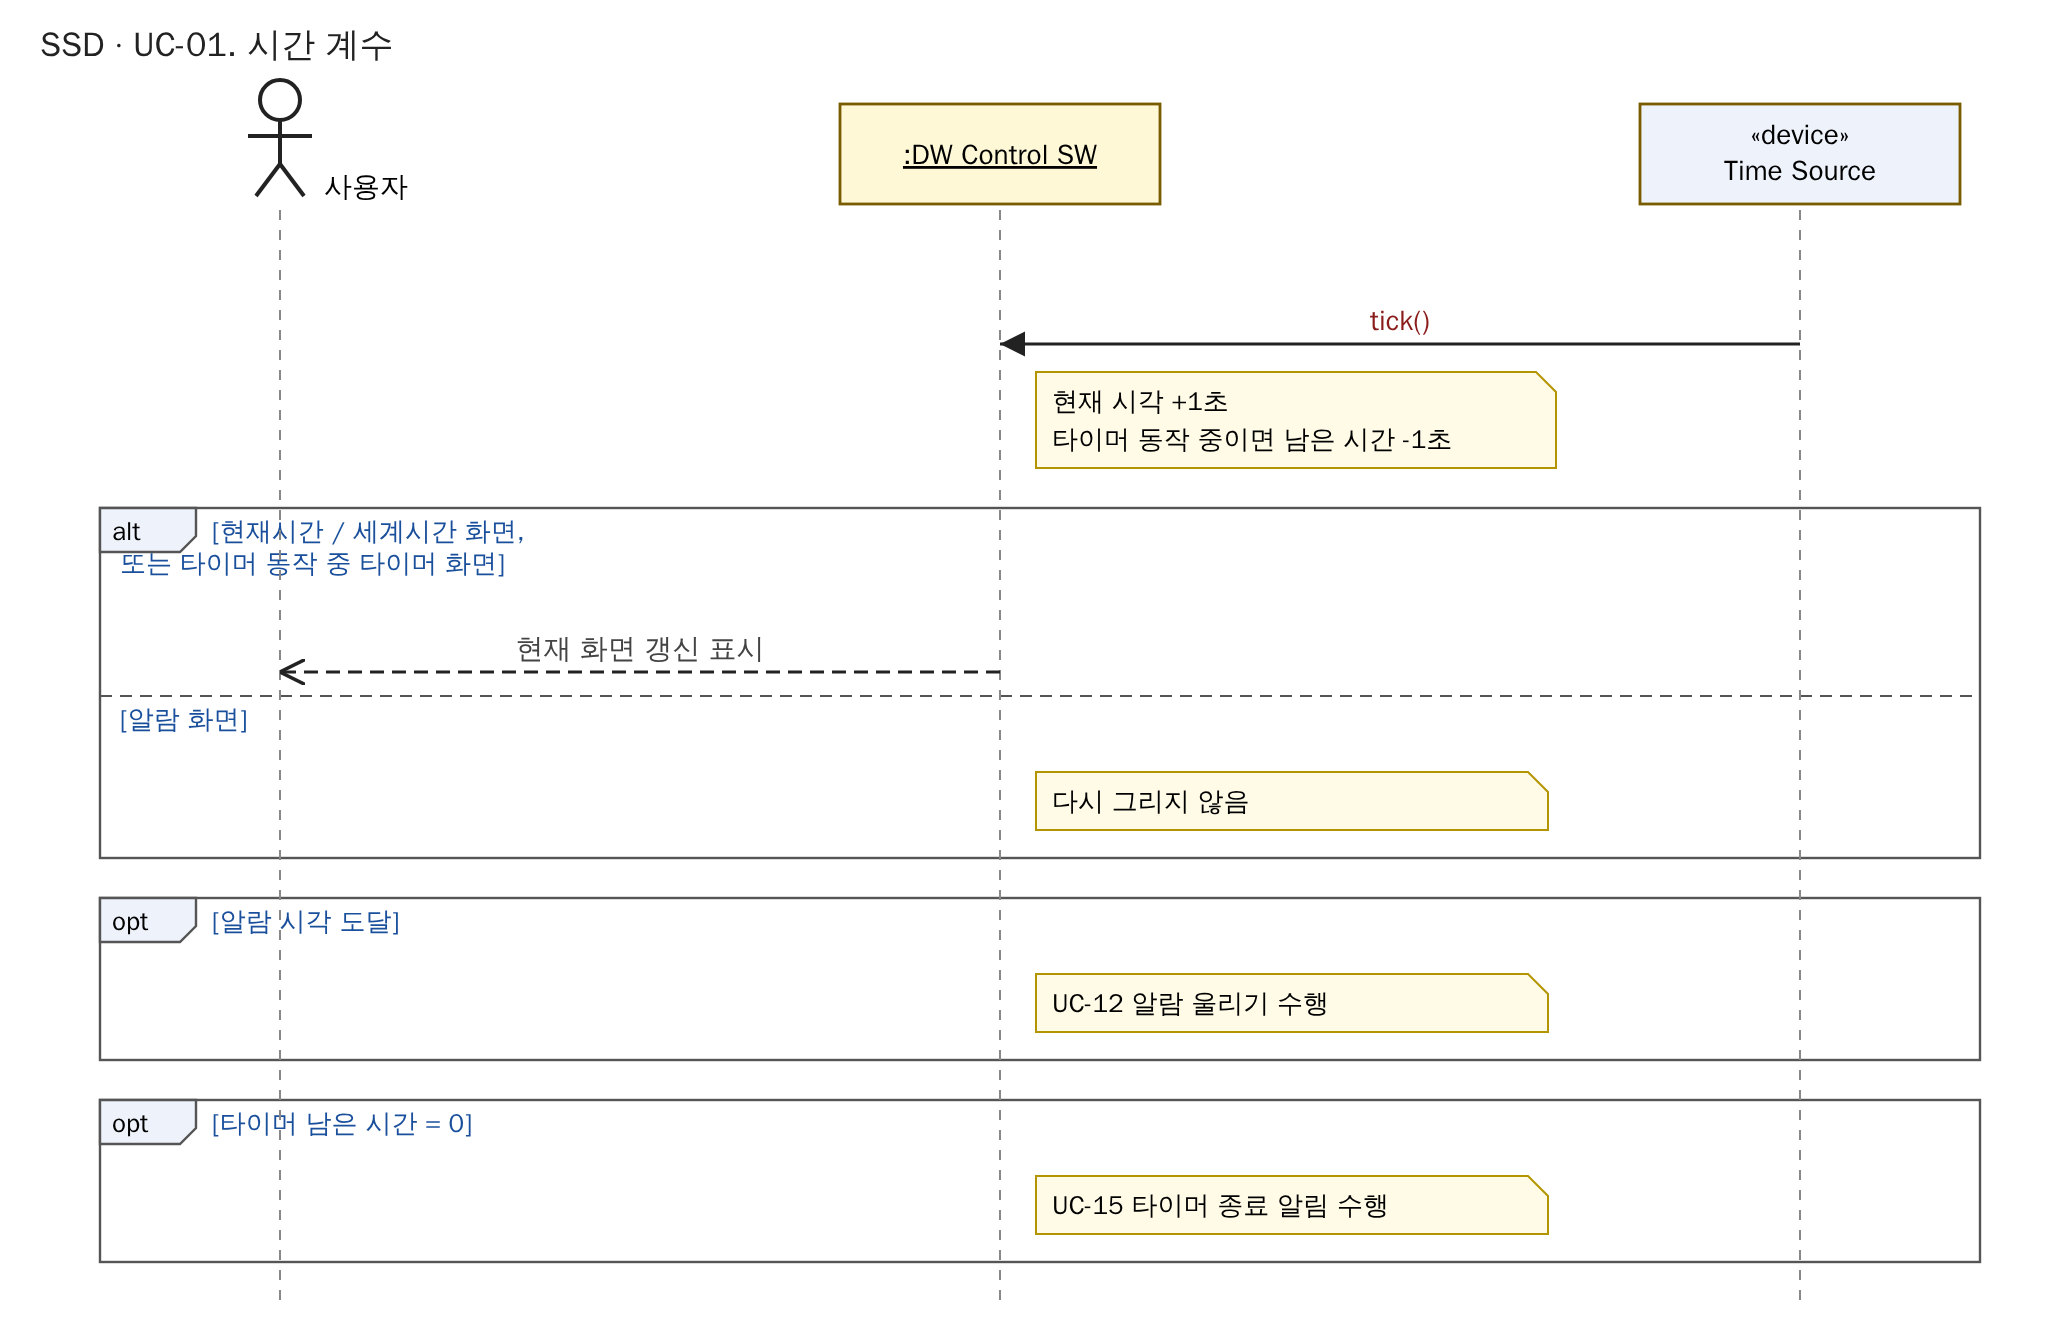
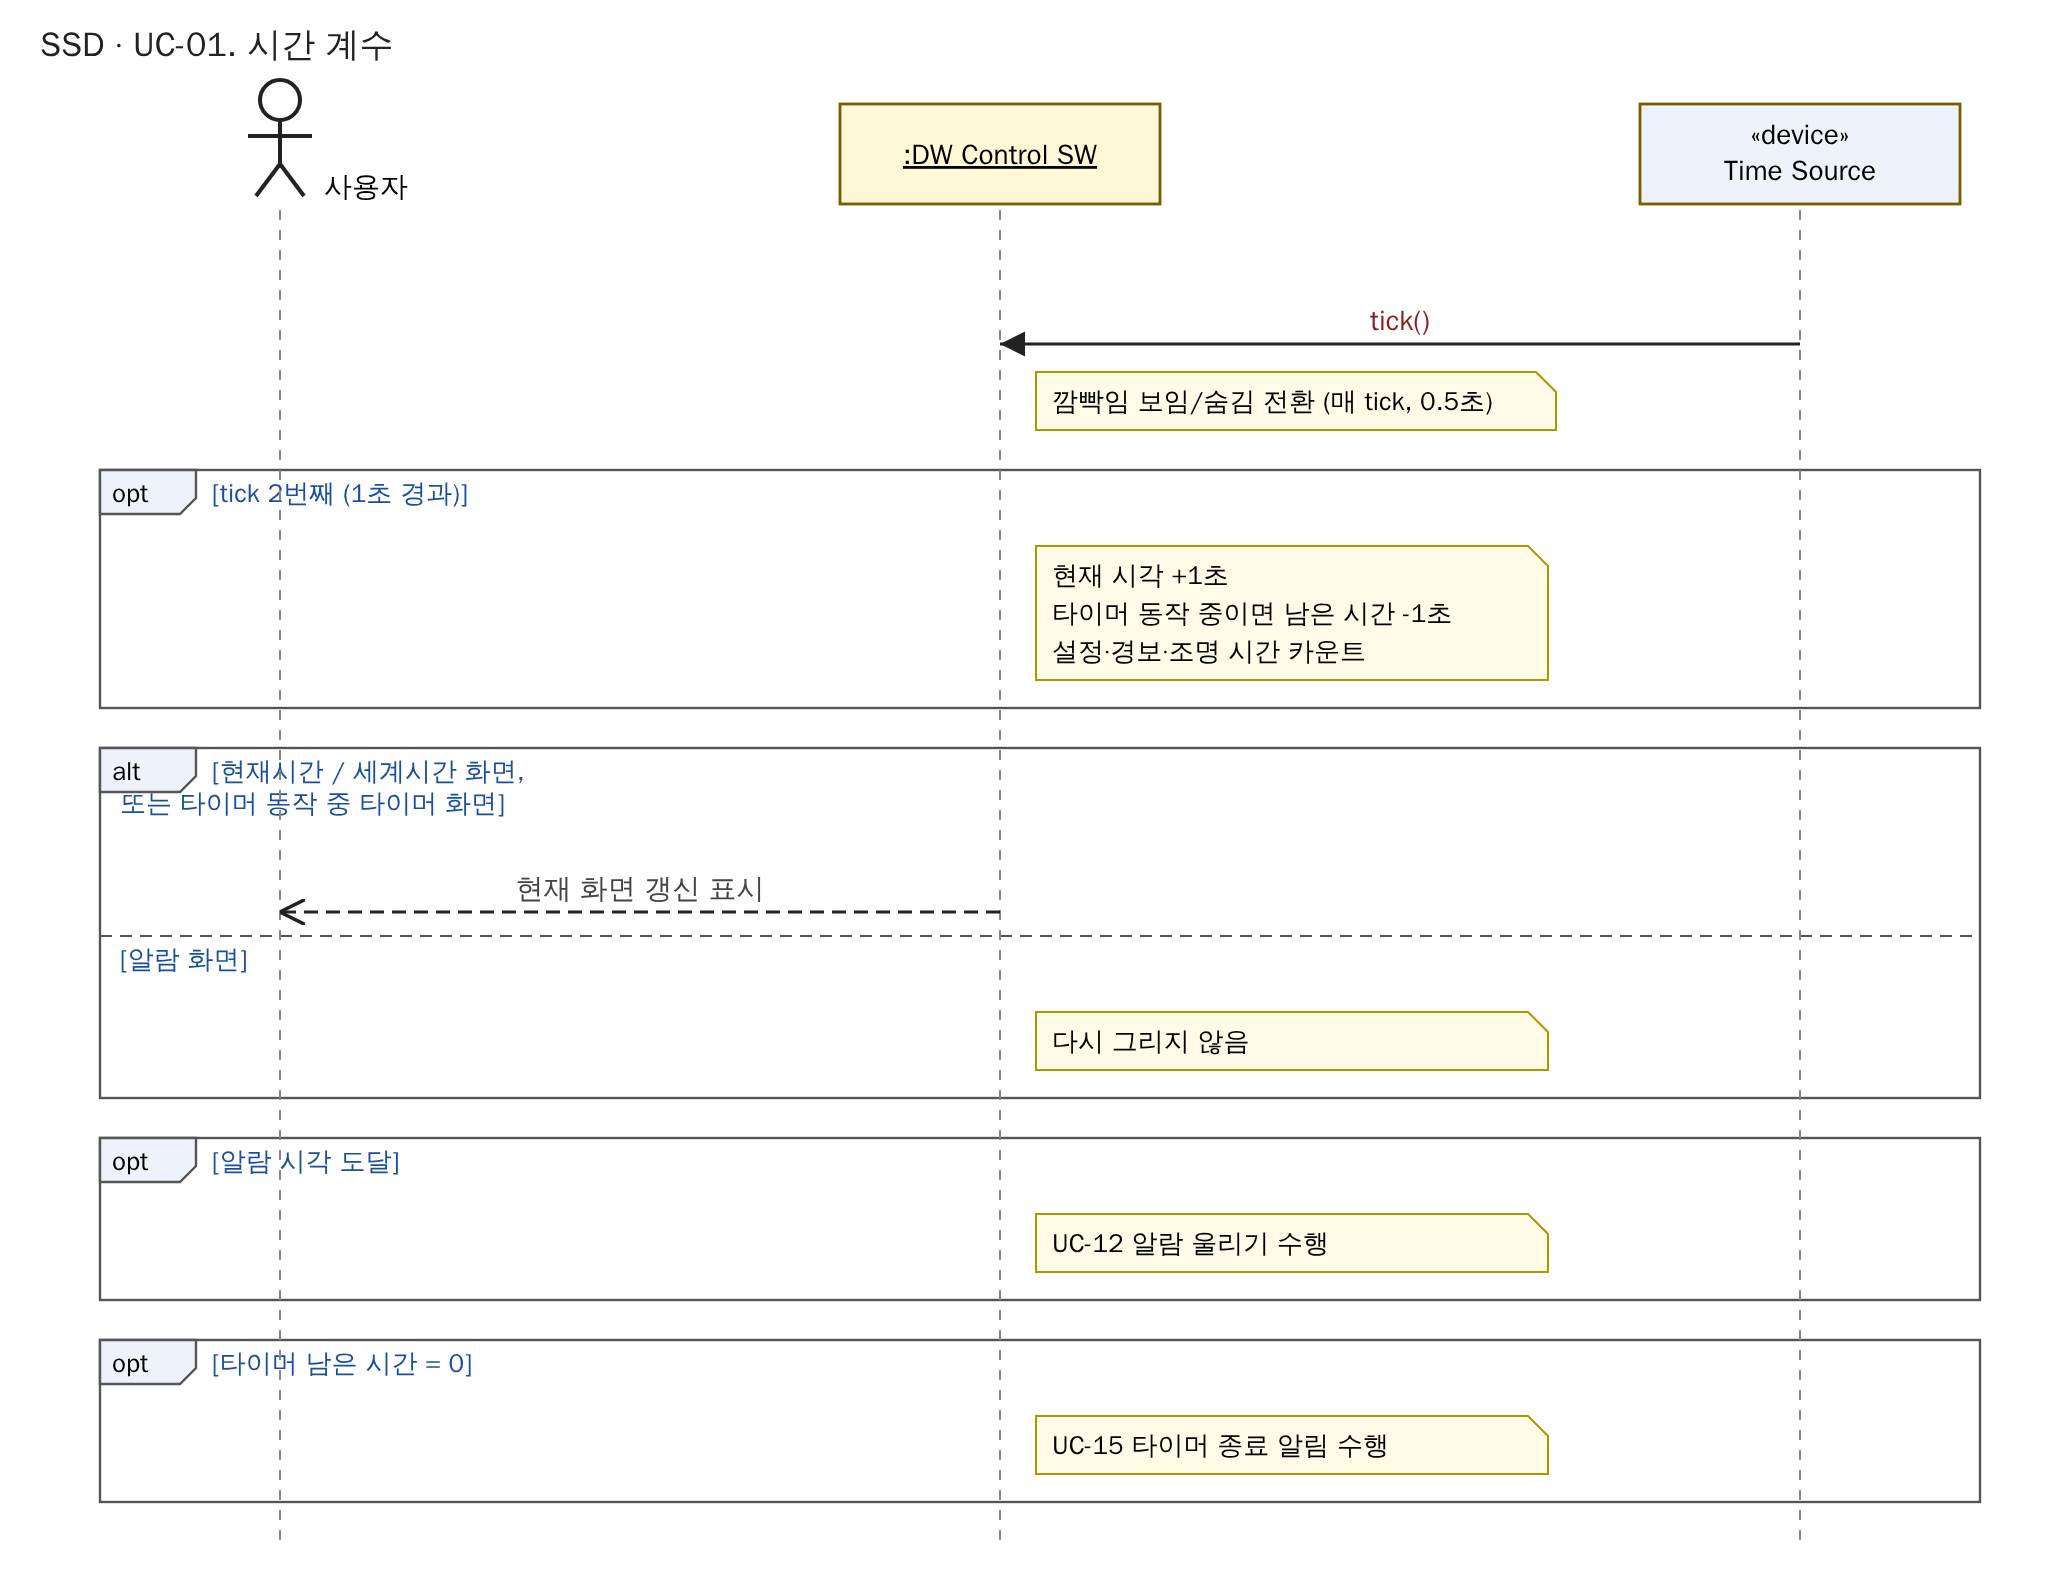
Document layered input handling, button-to-operation mapping and 0.5s tick
Add resetSeconds() system operation, update UC-01/UC-09 SSDs and
domain model TimeSource period.

Claude-Session: https://claude.ai/code/session_01QzoU77NBfd4KbyvbPRCZW3

diff --git a/docs/OOAD/practice/DigitalWatch_UseCases.md b/docs/OOAD/practice/DigitalWatch_UseCases.md
@@ -7,7 +7,7 @@ OOAD 팀 실습 (슬라이드 77, 85 ~ 88) · Activity #1 Planning
 ```mermaid
 flowchart LR
     BTN["«device»<br/>Buttons ×4<br/>(MODE, SET, ADJUST, LIGHT)"] -->|press / long-press| SW
-    CLK["«device»<br/>Time Source<br/>(Oscillator / HW Timer)"] -->|1초 tick 인터럽트| SW
+    CLK["«device»<br/>Time Source<br/>(Oscillator / HW Timer)"] -->|0.5초 tick 인터럽트| SW
     SW["DW Control SW"] -->|화면 표시<br/>백라이트 on/off| LCD["«device»<br/>LCD (+Backlight)"]
     SW -->|경보음 on/off| BZ["«device»<br/>Buzzer"]
 ```
@@ -16,20 +16,22 @@ flowchart LR
 
 | 구분 | 내용 |
 |---|---|
-| 하드웨어 | LCD(백라이트 포함) 1개, 버튼 4개, 부저 1개, SW controller 1개, Time Source(1초 tick) |
+| 하드웨어 | LCD(백라이트 포함) 1개, 버튼 4개, 부저 1개, SW controller 1개, Time Source(SW controller에 내장된 HW Timer, **0.5초 tick**) |
 | 버튼 | **MODE**: 기능 화면 전환<br>**SET**: 길게 누르면(2초) 설정 모드 진입/종료, 짧게 누르면 다음 항목으로 이동<br>**ADJUST**: 설정 중에는 값 +1, 설정 모드가 아닐 때는 화면마다 다른 기능<br>**LIGHT**: 백라이트 |
 | 알람 | 슬롯 4개(AL1~AL4) 고정. 각 슬롯을 ON/OFF한다. |
 | 세계시간 | 도시 20개. 도시마다 고정된 UTC offset을 쓰고, 서머타임은 지원하지 않는다. |
 | 전원 | 전원 켜기/끄기는 범위에서 제외한다. 시스템은 항상 동작 중이라고 가정한다. |
 | 초기 상태 | 현재시간 화면, 알람 슬롯 모두 OFF, 타이머 00:00:00 정지, 세계시간 도시는 첫 번째 도시(SEL) |
 | 시간 값 | 설정 무입력 타임아웃 60초, 알람음 30초, 타이머 경보음 10초, 조명 3초, 깜빡임 0.5초 간격 |
+| 계층 구조 | DW Control SW는 3개 계층으로 나눈다(실습 지시: *"Take care of the layered architecture"*).<br>**Device 계층**: 버튼 디바운싱, 짧게/길게(2초) 판정, 길게 누를 때 자동 반복<br>**UI/Control 계층**: 버튼 이벤트와 현재 상태(모드, 설정 중, 경보 중, 타이머 동작)를 보고 System Operation을 호출한다(7.2절 매핑 표)<br>**Domain 계층**: 현재 시각, 알람, 타이머, 도시 등 도메인 데이터와 규칙 |
+| 시간 기반 동작 | 시간 계수(1초), 깜빡임(0.5초), 설정 타임아웃(60초), 경보 지속(30초/10초), 조명(3초)은 모두 `tick()`을 세어 처리한다. 별도 외부 이벤트는 없다. |
 | 이전 화면 | 경보가 시작될 때 기능 화면, 선택 상태, 설정 중인 값을 저장한다. 모든 경보가 끝나면 복원한다. 경보가 겹치면 첫 경보가 시작될 때 한 번만 저장한다. |
 
 ## 3. Use Case 목록
 
 | # | Use Case | Actor | 구분 | 설명 |
 |---|---|---|---|---|
-| UC-01 | 시간 계수 (Timekeeping) | None | Hidden | 1초 tick마다 현재 시각과 타이머를 갱신한다. |
+| UC-01 | 시간 계수 (Timekeeping) | None | Hidden | 0.5초 tick을 세어 현재 시각, 타이머, 깜빡임, 타임아웃을 갱신한다. |
 | UC-02 | 시계 기능 전환 | 사용자 | Evident | MODE 버튼으로 기능 화면을 바꾼다. |
 | UC-03 | 현재시간 화면 표시 | None | Hidden | 현재 시각, 날짜, 아이콘을 표시한다. |
 | UC-04 | 알람 화면 표시 | None | Hidden | 알람 슬롯의 시각과 ON/OFF를 표시한다. |
@@ -60,8 +62,8 @@ Evident 9개, Hidden 9개.
 | **Use Case** | **UC-01. 시간 계수 (Timekeeping)** |
 | Actor | None (Hidden) |
 | Pre-Requisites | N/A |
-| Typical | 1. (S) 1초 tick이 들어오면 현재 시각을 1초 늘린다.<br>2. (S) 타이머가 동작 중이면 남은 시간을 1초 줄인다.<br>3. (S) 알람 시각이 되었는지, 타이머가 0이 되었는지 확인한다.<br>4. (S) 지금 기능 화면에 해당하는 표시 UC(UC-03 ~ UC-06)를 요청한다. |
-| Alternative | Line 1: 23:59:59가 지나면 날짜를 하루 넘긴다(월말·윤년 반영).<br>Line 3: 알람 시각이 되었으면 UC-12, 타이머가 0이 되었으면 UC-15를 수행한다.<br>Line 4: 경보가 울리는 중이면 표시 UC를 요청하지 않는다. 경보 화면을 그대로 둔다. |
+| Typical | 1. (S) 0.5초 tick이 들어오면 깜빡임 상태(보임/숨김)를 뒤집는다.<br>2. (S) 두 번째 tick마다(1초마다) 현재 시각을 1초 늘린다.<br>3. (S) 1초마다, 타이머가 동작 중이면 남은 시간을 1초 줄인다.<br>4. (S) 1초마다 설정 무입력 시간, 경보 지속 시간, 조명 시간을 센다.<br>5. (S) 알람 시각이 되었는지, 타이머가 0이 되었는지 확인한다.<br>6. (S) 지금 기능 화면에 해당하는 표시 UC(UC-03 ~ UC-06)를 요청한다. |
+| Alternative | Line 2: 23:59:59가 지나면 날짜를 하루 넘긴다(월말·윤년 반영).<br>Line 4: 설정 무입력 60초, 알람음 30초, 타이머 경보음 10초, 조명 3초에 이르면 해당 UC(UC-09·10·13의 타임아웃, UC-12, UC-15, UC-18)의 종료 처리를 한다.<br>Line 5: 알람 시각이 되었으면 UC-12, 타이머가 0이 되었으면 UC-15를 수행한다.<br>Line 6: 경보가 울리는 중이면 표시 UC를 요청하지 않는다. 경보 화면을 그대로 둔다. |
 | Exceptional | N/A |
 
 ### UC-02
@@ -141,7 +143,7 @@ Evident 9개, Hidden 9개.
 | Actor | 사용자 (Evident) |
 | Pre-Requisites | 기능 화면이 '현재시간'이어야 한다. |
 | Typical | 1. (A) SET 버튼을 2초 이상 누른다.<br>2. (S) 설정 모드에 들어가고 '초' 항목을 깜빡인다.<br>3. (A) ADJUST로 값을 바꾸고, SET을 짧게 눌러 다음 항목으로 넘어간다. 순서는 초 → 시 → 분 → 년 → 월 → 일이다.<br>4. (A) SET을 2초 이상 눌러 설정을 마친다.<br>5. (S) 바꾼 시간을 저장하고 설정 모드를 끝낸다. UC-03을 요청한다. |
-| Alternative | Line 3: '초' 항목에서 ADJUST를 누르면 초를 00으로 맞춘다.<br>Line 3: 60초 동안 입력이 없으면 지금까지 바꾼 값을 저장하고 설정을 끝낸다. |
+| Alternative | Line 3: '초' 항목에서는 ADJUST를 누르면 값을 1 올리는 대신 초를 00으로 맞춘다(`resetSeconds()`).<br>Line 3: 60초 동안 입력이 없으면 지금까지 바꾼 값을 저장하고 설정을 끝낸다. |
 | Exceptional | Line 5: 없는 날짜(예: 2/30)는 그 달의 마지막 날로 고친다. |
 
 ### UC-10
@@ -255,6 +257,7 @@ Evident 9개, Hidden 9개.
 ## 6. System Sequence Diagrams (OOA)
 
 - 편집용 원본: [ssd/DigitalWatch_SSD.drawio](ssd/DigitalWatch_SSD.drawio) (UC마다 한 페이지, 12페이지)
+- system event 이름은 의도 수준이다. 버튼 → System Operation 변환은 UI/Control 계층이 맡는다고 가정한다(2장 계층 구조, 7.2절 매핑 표).
 - 시스템을 black box(`:DW Control SW`)로 놓고, 외부에서 들어오는 **system event**와 시스템의 응답(LCD 표시, 부저)만 그렸다.
 - system event 이름은 **버튼이 아니라 의도 수준**으로 지었다(슬라이드 102: `scan()`보다 `enterItem()`). 버튼 매핑은 아래 System Operations 표에 따로 적었다.
 - Hidden UC는 Use Case Diagram에서는 Actor가 없지만, SSD에서는 사건을 일으키는 외부 장치가 필요하므로 `«device» Time Source`를 lifeline으로 그렸다.
@@ -279,6 +282,7 @@ DW Control SW
 + startSetting()
 + selectNextField()
 + increaseValue()
++ resetSeconds()
 + finishSetting()
 + selectNextAlarm()
 + toggleAlarm()
@@ -292,11 +296,12 @@ DW Control SW
 
 | System Operation | 의도 | 물리 입력 (상황) | 관련 UC |
 |---|---|---|---|
-| `tick()` | 1초가 지났음을 알린다 | Time Source 1초 인터럽트 | UC-01, UC-12, UC-15 |
+| `tick()` | 0.5초가 지났음을 알린다 | HW Timer 0.5초 인터럽트 | UC-01, UC-12, UC-15 (타임아웃 처리 포함) |
 | `changeMode()` | 다음 기능 화면으로 바꾼다 | MODE | UC-02 |
 | `startSetting()` | 설정 모드에 들어간다 | SET 길게 (현재시간·알람·타이머 화면) | UC-09, UC-10, UC-13 |
 | `selectNextField()` | 다음 설정 항목으로 넘어간다 | SET 짧게 (설정 중) | UC-09, UC-10, UC-13 |
-| `increaseValue()` | 편집 중인 값을 1 올린다 | ADJUST (설정 중) | UC-09, UC-10, UC-13 |
+| `increaseValue()` | 편집 중인 값을 1 올린다 | ADJUST (설정 중, 현재시간 '초' 항목 제외) | UC-09, UC-10, UC-13 |
+| `resetSeconds()` | 초를 00으로 맞춘다 | ADJUST (현재 시간 설정 중, '초' 항목) | UC-09 |
 | `finishSetting()` | 설정을 저장하고 끝낸다 | SET 길게 (설정 중) | UC-09, UC-10, UC-13 |
 | `selectNextAlarm()` | 다음 알람 슬롯을 고른다 | ADJUST (알람 화면) | UC-10, UC-11 |
 | `toggleAlarm()` | 선택한 알람을 켜거나 끈다 | SET 짧게 (알람 화면) | UC-11 |
@@ -307,6 +312,49 @@ DW Control SW
 | `turnOnLight()` | 백라이트를 켠다 | LIGHT | UC-18 |
 | `stopAlert()` | 울리는 경보음을 끈다 | 아무 버튼 (경보 중) | UC-16 |
 
+System Operation은 **15개**다.
+
+### 7.1 계층 가정 – 누가 버튼을 System Operation으로 바꾸는가
+
+```
+ [Buttons] ──press/release──▶ Device 계층 ──버튼 이벤트──▶ UI/Control 계층 ──System Operation──▶ Domain 계층
+ [HW Timer] ─────────────────────────── tick() ─────────────────────────────────────────────────▶ (UC-01)
+                                       · 디바운싱              · 현재 상태를 보고 변환
+                                       · 짧게 / 길게(2초) 판정  · (모드, 설정 중, 경보 중, 타이머 동작)
+                                       · 길게 누를 때 자동 반복
+```
+
+- SSD의 `:DW Control SW`는 세 계층 전체를 black box로 본 것이다. system event는 사용자의 **의도**(슬라이드 102)로 표현했다.
+- Device 계층이 만드는 버튼 이벤트: `MODE`, `SET_SHORT`, `SET_LONG`, `ADJUST`, `ADJUST_REPEAT`(길게 누르는 동안 반복), `LIGHT`
+
+### 7.2 버튼 이벤트 → System Operation 매핑 (UI/Control 계층)
+
+위에서부터 먼저 맞는 행을 적용한다.
+
+| 상태 | MODE | SET 짧게 | SET 길게 | ADJUST (반복 포함) | LIGHT |
+|---|---|---|---|---|---|
+| **경보 중** (알람 울림 / 타이머 종료) | `stopAlert()` | `stopAlert()` | `stopAlert()` | `stopAlert()` | `stopAlert()` + `turnOnLight()` |
+| **설정 중** – 현재시간 '초' 항목 | 무시 | `selectNextField()` | `finishSetting()` | `resetSeconds()` | `turnOnLight()` |
+| **설정 중** – 그 밖의 항목 | 무시 | `selectNextField()` | `finishSetting()` | `increaseValue()` | `turnOnLight()` |
+| 현재시간 화면 | `changeMode()` | 무시 | `startSetting()` | 무시 | `turnOnLight()` |
+| 알람 화면 | `changeMode()` | `toggleAlarm()` | `startSetting()` | `selectNextAlarm()` | `turnOnLight()` |
+| 타이머 화면 – 정지 | `changeMode()` | `resetTimer()` | `startSetting()` | `startTimer()` | `turnOnLight()` |
+| 타이머 화면 – 동작 | `changeMode()` | 무시 | 무시 | `stopTimer()` | `turnOnLight()` |
+| 세계시간 화면 | `changeMode()` | 무시 | 무시 | `selectNextCity()` | `turnOnLight()` |
+
+> 이 표의 행(상태)과 칸(이벤트)이 다음 단계 **Statechart**의 상태와 전이가 된다.
+
+### 7.3 `tick()`에서 파생되는 동작 (별도 System Operation 없음)
+
+| 동작 | 주기 / 조건 | 관련 UC |
+|---|---|---|
+| 깜빡임 보임/숨김 전환 | 매 tick (0.5초) | UC-03 ~ UC-08 |
+| 현재 시각 +1초, 타이머 −1초 | tick 2번마다 (1초) | UC-01 |
+| 설정 무입력 타임아웃 | 60초 | UC-09, UC-10, UC-13 |
+| 알람음 자동 종료 | 30초 | UC-12 |
+| 타이머 경보음 자동 종료 | 10초 | UC-15 |
+| 백라이트 자동 꺼짐 | 3초 | UC-18 |
+
 ## 8. Traceability Table (UC ↔ SSD ↔ System Operation)
 
 | UC | SSD | System Operations |
@@ -316,7 +364,7 @@ DW Control SW
 | UC-03 ~ UC-06 화면 표시 | (SSD_UC-01, 02, 09 ~ 11, 13, 14, 17의 응답) | – |
 | UC-07 알람 울림 화면 표시 | (SSD_UC-12의 응답) | – |
 | UC-08 타이머 종료 화면 표시 | (SSD_UC-15의 응답) | – |
-| UC-09 현재 시간 설정 | SSD_UC-09 | startSetting(), increaseValue(), selectNextField(), finishSetting() |
+| UC-09 현재 시간 설정 | SSD_UC-09 | startSetting(), increaseValue(), resetSeconds(), selectNextField(), finishSetting() |
 | UC-10 알람 설정 | SSD_UC-10 | selectNextAlarm(), startSetting(), increaseValue(), selectNextField(), finishSetting() |
 | UC-11 알람 해제 | SSD_UC-11 | selectNextAlarm(), toggleAlarm() |
 | UC-12 알람 울리기 | SSD_UC-12 | tick() |
@@ -342,7 +390,7 @@ DW Control SW
 | 사용자 | User | |
 | MODE · SET · ADJUST · LIGHT 버튼 | Button | name |
 | 시계 | DigitalWatch | |
-| 1초 tick | TimeSource | period |
+| 0.5초 tick | TimeSource | period |
 | 화면, 백라이트 | LCD | backlightOn |
 | 경보음, 알람음 | Buzzer | isSounding |
 | 기능 화면 (현재시간 / 알람 / 타이머 / 세계시간) | Mode + 하위 개념 4개 | name, order |
